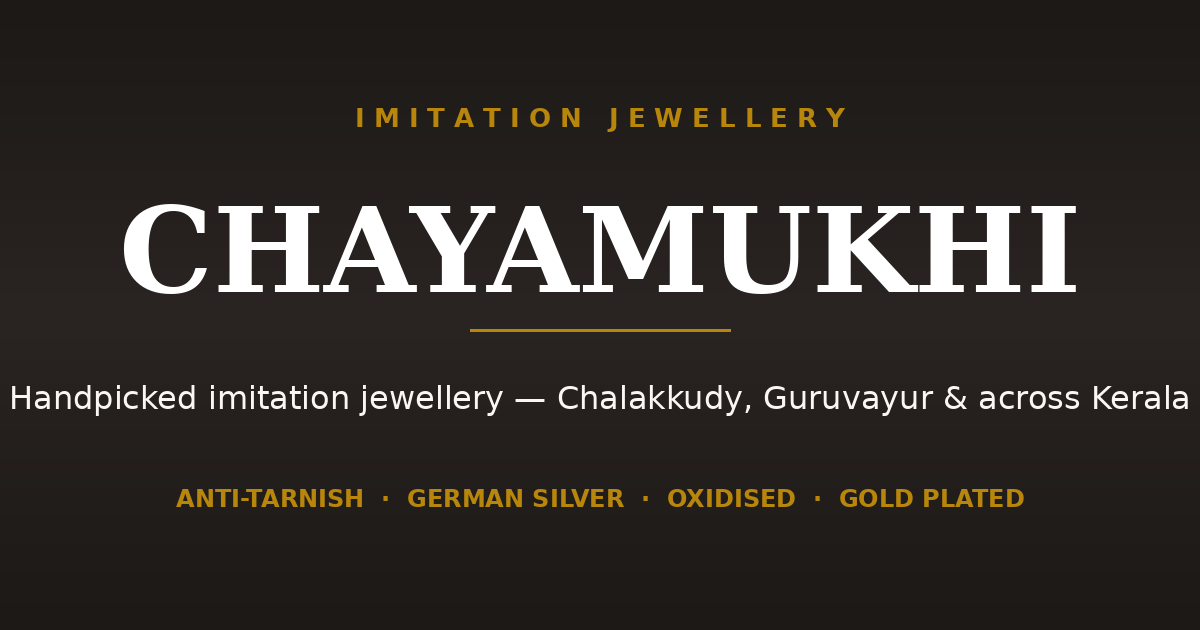
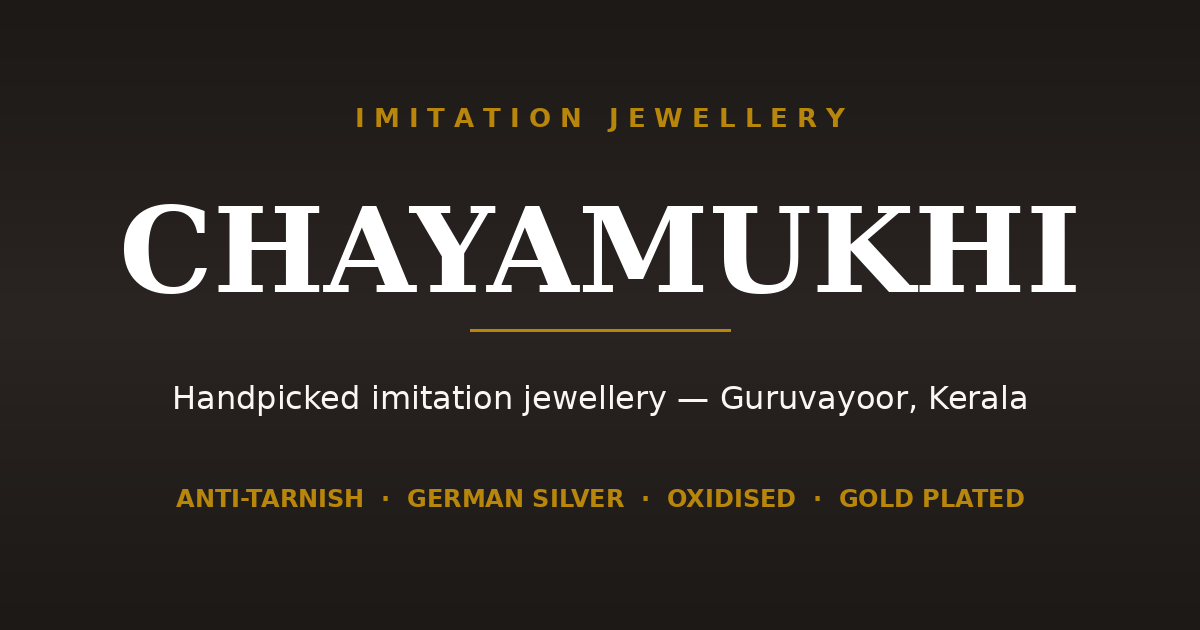
SEO: change location targeting from Chalakkudy to Guruvayoor
- layout.tsx: title, description, keywords, OpenGraph/Twitter titles, and
  JewelryStore address/areaServed now use Guruvayoor (matches the physical shop).
- manifest.ts: description updated to Guruvayoor.
- opengraph-image.png / twitter-image.png: regenerated with "Guruvayoor, Kerala".

Changed region(s): [[0.0, 0.6032, 1.0, 0.6635]]

diff --git a/app/layout.tsx b/app/layout.tsx
@@ -22,21 +22,21 @@ import WhatsAppButton from "@/components/WhatsAppButton";
 import CookieNotice from "@/components/CookieNotice";
 
 const DESCRIPTION =
-  "Chayamukhi — shop imitation jewellery online, serving Chalakkudy, Guruvayur and across Kerala. Anti-tarnish chains, German silver, oxidised, antique and gold-plated necklace sets, earrings, bangles and rings. Pan-India delivery, easy WhatsApp checkout.";
+  "Chayamukhi — shop imitation jewellery online from Guruvayoor, Kerala. Anti-tarnish chains, German silver, oxidised, antique and gold-plated necklace sets, earrings, bangles and rings. Pan-India delivery, easy WhatsApp checkout.";
 
 export const metadata: Metadata = {
   metadataBase: new URL(BRAND.siteUrl),
   title: {
-    default: "Imitation Jewellery in Chalakkudy | Chayamukhi",
+    default: "Imitation Jewellery in Guruvayoor | Chayamukhi",
     template: "%s · Chayamukhi",
   },
   description: DESCRIPTION,
   applicationName: BRAND.name,
   keywords: [
     "imitation jewellery",
-    "imitation jewellery in Chalakkudy",
-    "imitation jewellery Chalakkudy",
-    "artificial jewellery Chalakkudy",
+    "imitation jewellery in Guruvayoor",
+    "imitation jewellery Guruvayoor",
+    "artificial jewellery Guruvayoor",
     "imitation jewellery Guruvayur",
     "imitation jewellery Thrissur",
     "fashion jewellery Kerala",
@@ -61,14 +61,14 @@ export const metadata: Metadata = {
   openGraph: {
     type: "website",
     siteName: BRAND.name,
-    title: "Imitation Jewellery in Chalakkudy | Chayamukhi",
+    title: "Imitation Jewellery in Guruvayoor | Chayamukhi",
     description: DESCRIPTION,
     url: BRAND.siteUrl,
     locale: "en_IN",
   },
   twitter: {
     card: "summary_large_image",
-    title: "Imitation Jewellery in Chalakkudy | Chayamukhi",
+    title: "Imitation Jewellery in Guruvayoor | Chayamukhi",
     description: DESCRIPTION,
   },
   robots: {
@@ -107,14 +107,13 @@ export default async function RootLayout({ children }: { children: ReactNode }) 
     address: {
       "@type": "PostalAddress",
       streetAddress: "1st Floor, Madhavi Business Complex, Puthanpalli",
-      addressLocality: "Guruvayur",
+      addressLocality: "Guruvayoor",
       addressRegion: "Kerala",
       postalCode: "680103",
       addressCountry: "IN",
     },
     areaServed: [
-      { "@type": "City", name: "Chalakkudy" },
-      { "@type": "City", name: "Guruvayur" },
+      { "@type": "City", name: "Guruvayoor" },
       { "@type": "AdministrativeArea", name: "Thrissur" },
       { "@type": "AdministrativeArea", name: "Kerala" },
       { "@type": "Country", name: "India" },

diff --git a/app/manifest.ts b/app/manifest.ts
@@ -5,7 +5,7 @@ export default function manifest(): MetadataRoute.Manifest {
   return {
     name: `${BRAND.name} — Imitation Jewellery`,
     short_name: BRAND.name,
-    description: "Shop imitation jewellery online at Chayamukhi — serving Chalakkudy, Guruvayur and across Kerala. Anti-tarnish, German silver, oxidised and gold-plated pieces. Pan-India delivery, WhatsApp checkout.",
+    description: "Shop imitation jewellery online at Chayamukhi — from Guruvayoor, Kerala. Anti-tarnish, German silver, oxidised and gold-plated pieces. Pan-India delivery, WhatsApp checkout.",
     start_url: "/",
     scope: "/",
     display: "standalone",
